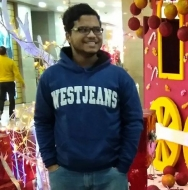
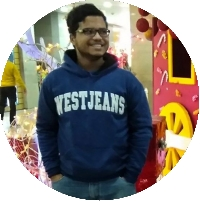
Uploaded round image.

diff --git a/index.html b/index.html
@@ -58,7 +58,7 @@ ga('send', 'pageview');
       <section id="about">
         <div class="container">
         <div class="avatar">
-          <img class="img-circle" style="border-radius: 50% !important;" src="https://vishalpolley.github.io/img/vishal.jpg" alt="Responsive image">
+          <img class="img-circle" src="https://vishalpolley.github.io/img/vishal.jpg" alt="Responsive image">
         </div>
         <h3>I'm <strong>Vishal Polley</strong>, a BackEnd Developer.</h3>
         <h3>I love all things computer science and maths.</h3>
